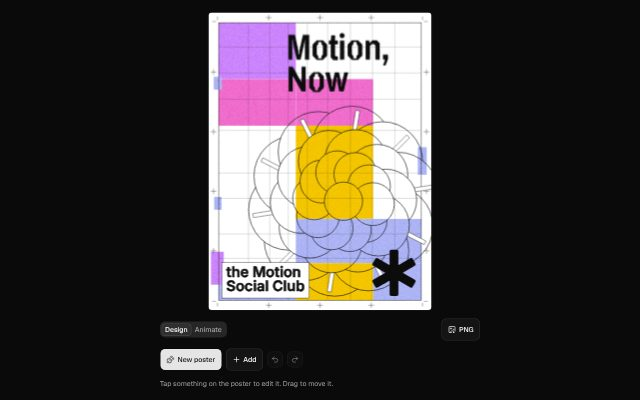
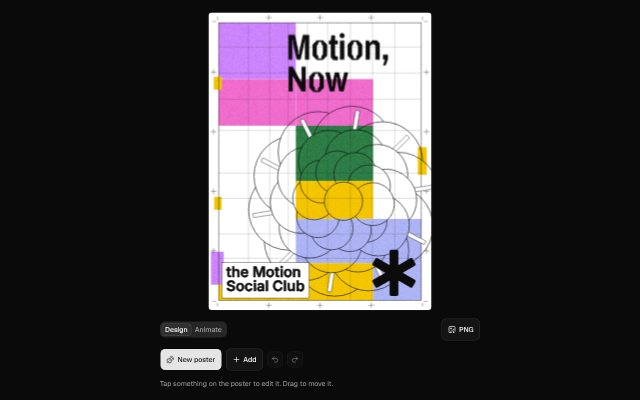
KV Posters: Verde blocks in the white canvas palettes
Claude-Session: https://claude.ai/code/session_01TARX4bFFU8dum9PbtFbYFe

diff --git a/playground/app/prototypes/kv-posters/palettes.test.ts b/playground/app/prototypes/kv-posters/palettes.test.ts
@@ -1,14 +1,14 @@
 import { describe, expect, it } from "vitest";
-import { BLOCK_TYPE_CONTRAST, contrast, MONO_COLORS, monoPalette, MOTIF_CONTRAST, PAIR_PALETTES } from "./palettes";
+import { BLOCK_TYPE_CONTRAST, PALETTE_BLOCK_TYPE_CONTRAST, contrast, MONO_COLORS, monoPalette, MOTIF_CONTRAST, PAIR_PALETTES } from "./palettes";
 import type { Palette } from "./types";
 
 const BLOCKS = ["blue", "pink", "lilac", "mint", "orange", "yellow", "green"] as const;
 
-function readable(p: Palette) {
+function readable(p: Palette, blockType = BLOCK_TYPE_CONTRAST) {
   expect(p.paper).toBe("#FFFFFF");
   expect(contrast(p.paper, p.ink)).toBeGreaterThanOrEqual(4.5);
   for (const k of BLOCKS) {
-    expect(contrast(p[k], p.ink)).toBeGreaterThanOrEqual(BLOCK_TYPE_CONTRAST);
+    expect(contrast(p[k], p.ink)).toBeGreaterThanOrEqual(blockType);
     expect(contrast(p[k], p.paper)).toBeGreaterThanOrEqual(MOTIF_CONTRAST);
   }
 }
@@ -16,7 +16,10 @@ function readable(p: Palette) {
 describe("white canvas palettes", () => {
   it("are white, with readable type and blocks", () => {
     expect(Object.keys(PAIR_PALETTES).length).toBeGreaterThanOrEqual(2);
-    Object.values(PAIR_PALETTES).forEach(readable);
+    Object.values(PAIR_PALETTES).forEach((p) => readable(p, PALETTE_BLOCK_TYPE_CONTRAST));
+  });
+  it("include Verde blocks", () => {
+    expect(Object.values(PAIR_PALETTES).some((p) => Object.values(p).includes("#2E7D46"))).toBe(true);
   });
 });
 

diff --git a/playground/app/prototypes/kv-posters/palettes.ts b/playground/app/prototypes/kv-posters/palettes.ts
@@ -26,6 +26,8 @@ export const TYPE_CONTRAST = 4.5;
 /** Minimum separation between a coloured block and the background, and between a block and type laid over it. */
 export const MOTIF_CONTRAST = 1.3;
 export const BLOCK_TYPE_CONTRAST = 4.5;
+/** Colour palettes: type over a block meets AA for large text (3:1); the headline and lockup are large and bold. Lets Verde in. */
+export const PALETTE_BLOCK_TYPE_CONTRAST = 3;
 
 /** Motif slot → its natural tMSC colour; a slot whose colour is the figure, too close to the background, or too dark under the type takes a spare. */
 const SLOTS = { blue: "Periwinkle", pink: "Magenta", lilac: "Lila", mint: "Verde", orange: "Naranja", yellow: "Amarillo" } as const;
@@ -34,7 +36,7 @@ const SPARES: Name[] = ["Acid", "Amarillo", "Periwinkle", "Lila", "Magenta", "Na
 /** Paper = background, ink = figure (type, lines); boxes take the background, motifs the rest of the set. */
 export function pairPalette(bg: Name, fg: Name): Palette {
   const ok = (n: Name) =>
-    n !== fg && n !== bg && contrast(TMSC[n], TMSC[bg]) >= MOTIF_CONTRAST && contrast(TMSC[n], TMSC[fg]) >= BLOCK_TYPE_CONTRAST;
+    n !== fg && n !== bg && contrast(TMSC[n], TMSC[bg]) >= MOTIF_CONTRAST && contrast(TMSC[n], TMSC[fg]) >= PALETTE_BLOCK_TYPE_CONTRAST;
   const spares = SPARES.filter(ok);
   let k = 0;
   const slot = (n: Name) => TMSC[ok(n) ? n : spares[k++ % spares.length]];
